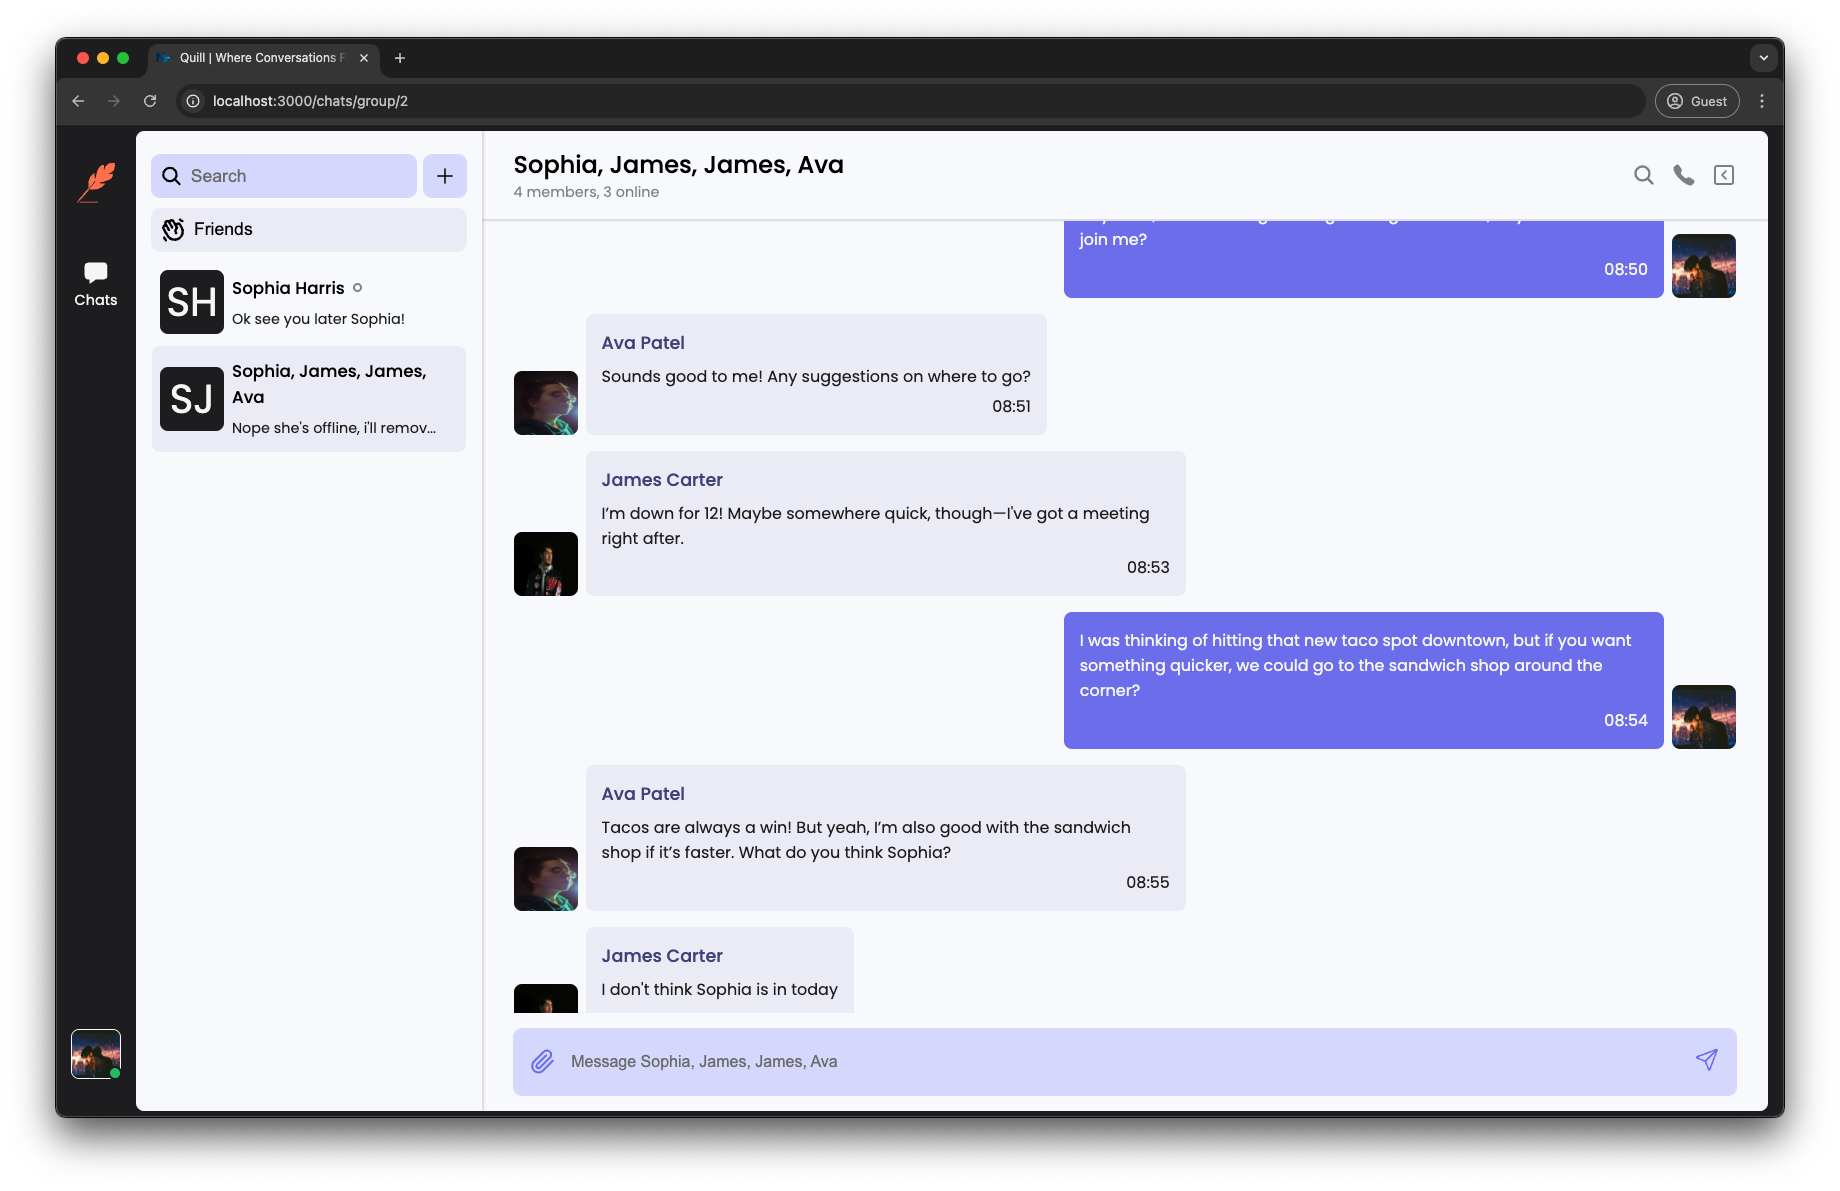
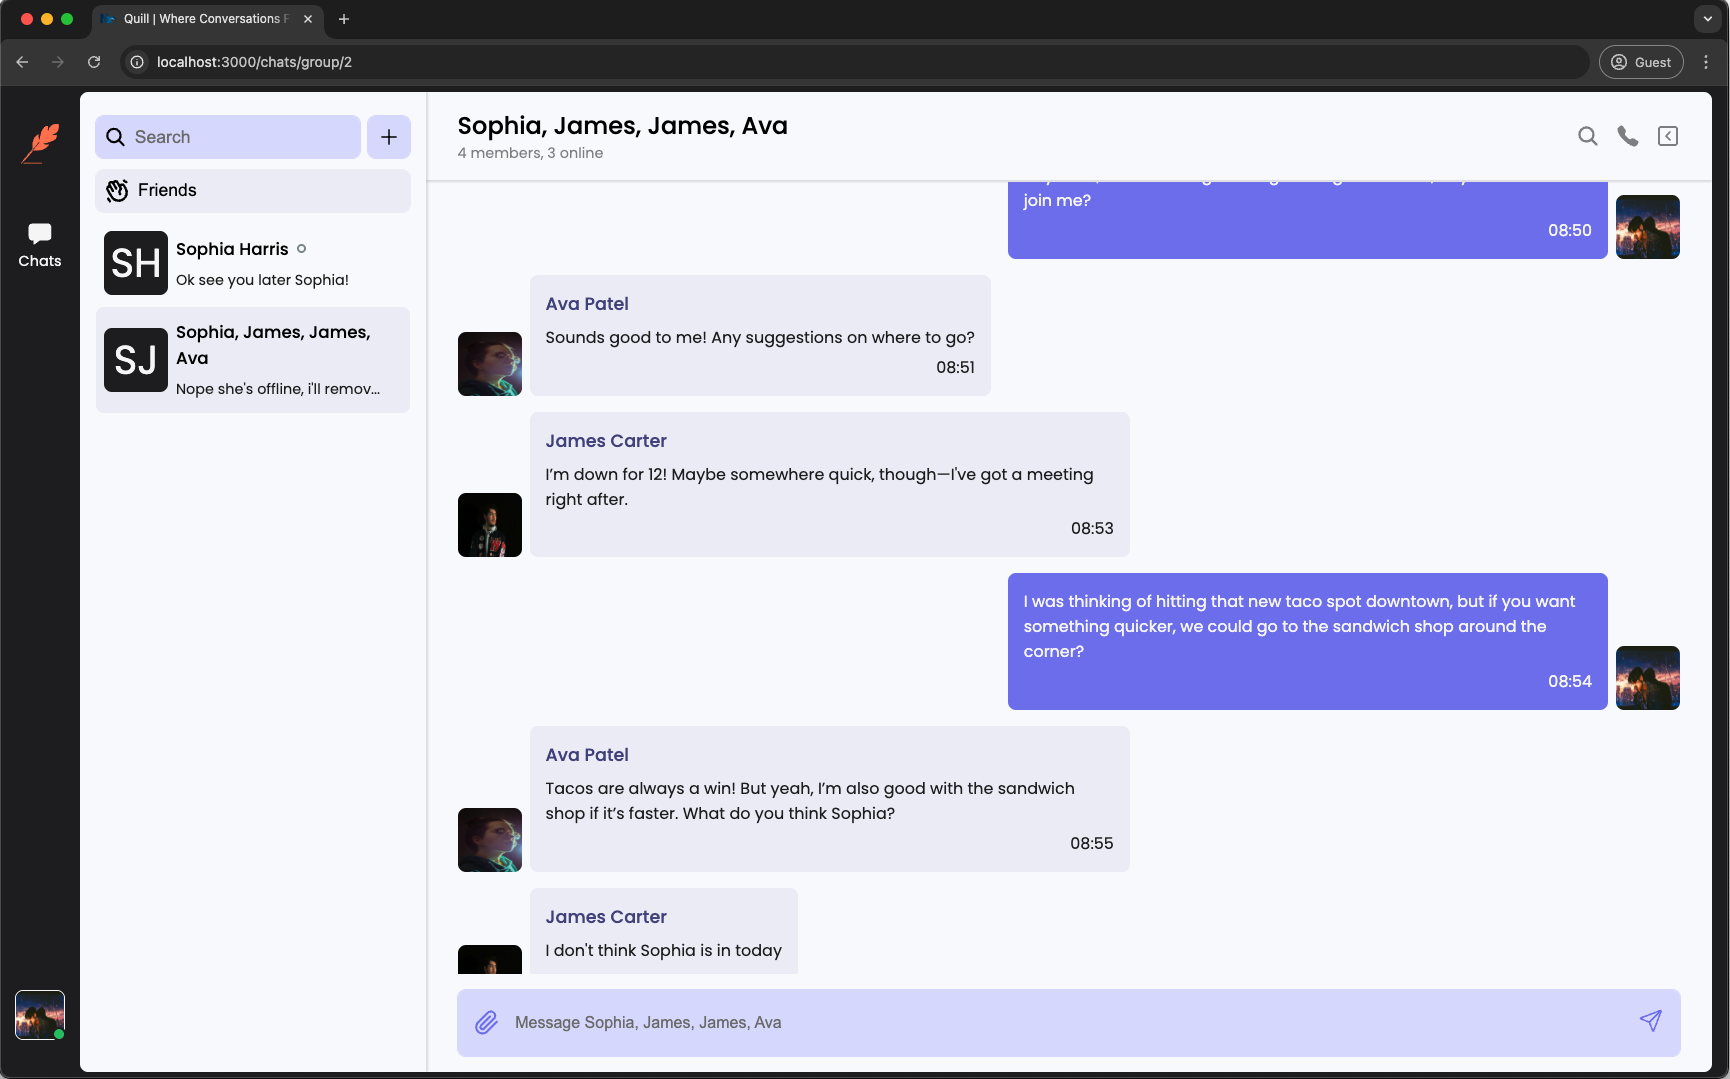
Add portfolio page

diff --git a/src/components/portfolio.tsx b/src/components/portfolio.tsx
@@ -1,0 +1,168 @@
+import PortfolioCard from './portfolioCard';
+
+export default async function Portfolio() {
+	const ignoreList = [
+		'github-readme-stats',
+		'kieran-lawrence',
+		'portfolio-website',
+		'klipit',
+		'my-kanban-app',
+	];
+
+	const res = await fetch('https://api.github.com/users/kieran-lawrence/repos');
+	let portfolioData: GitHubResponseType[] | undefined = undefined;
+	try {
+		switch (res.status) {
+			case 200:
+				portfolioData = await res.json();
+				break;
+			case 403:
+				console.error('Rate limit exceeded. Please try again later.');
+				break;
+			case 401:
+				console.error('Unauthorized. Please check your credentials.');
+				break;
+			default:
+				console.error('An error occurred. Please try again later.');
+				break;
+		}
+	} catch (error) {
+		console.error('An error occurred while fetching the data:', error);
+	}
+
+	return (
+		<div
+			id="portfolio"
+			className="flex h-[100vh] w-full flex-col items-center justify-center gap-4"
+		>
+			<h2>Portfolio</h2>
+			<ul className="portfolioGrid h-full w-[65vw] max-w-[85rem] justify-center gap-8">
+				{portfolioData &&
+					portfolioData.map(
+						(repo: GitHubResponseType) =>
+							!ignoreList.includes(repo.name) && (
+								<PortfolioCard
+									key={repo.id}
+									cardDescription={repo.description}
+									cardTitle={repo.name}
+									skills={repo.topics}
+								/>
+							),
+					)}
+				<PortfolioCard
+					cardDescription={
+						'A React Native app for effortlessly tracking your personal book collection, discovering new reads, and celebrating your reading journey with meaningful milestones'
+					}
+					cardTitle={'coming-soon'}
+					skills={['React Native', 'Fastlane', 'GitHub CI/CD']}
+				/>
+				<PortfolioCard
+					cardDescription={'Coming Soon'}
+					cardTitle={'coming-soon'}
+					skills={['Coming Soon']}
+				/>
+			</ul>
+		</div>
+	);
+}
+
+type GitHubResponseType = {
+	id: number;
+	node_id: string;
+	name: string;
+	full_name: string;
+	private: boolean;
+	owner: {
+		login: string;
+		id: number;
+		node_id: string;
+		avatar_url: string;
+		gravatar_id: string;
+		url: string;
+		html_url: string;
+		followers_url: string;
+		following_url: string;
+		gists_url: string;
+		starred_url: string;
+		subscriptions_url: string;
+		organizations_url: string;
+		repos_url: string;
+		events_url: string;
+		received_events_url: string;
+		type: string;
+		site_admin: boolean;
+	};
+	html_url: string;
+	description: string;
+	fork: boolean;
+	url: string;
+	forks_url: string;
+	keys_url: string;
+	collaborators_url: string;
+	teams_url: string;
+	hooks_url: string;
+	issue_events_url: string;
+	events_url: string;
+	assignees_url: string;
+	branches_url: string;
+	tags_url: string;
+	blobs_url: string;
+	git_tags_url: string;
+	git_refs_url: string;
+	trees_url: string;
+	statuses_url: string;
+	languages_url: string;
+	stargazers_url: string;
+	contributors_url: string;
+	subscribers_url: string;
+	subscription_url: string;
+	commits_url: string;
+	git_commits_url: string;
+	comments_url: string;
+	issue_comment_url: string;
+	contents_url: string;
+	compare_url: string;
+	merges_url: string;
+	archive_url: string;
+	downloads_url: string;
+	issues_url: string;
+	pulls_url: string;
+	milestones_url: string;
+	notifications_url: string;
+	labels_url: string;
+	releases_url: string;
+	deployments_url: string;
+	created_at: string;
+	updated_at: string;
+	pushed_at: string;
+	git_url: string;
+	ssh_url: string;
+	clone_url: string;
+	svn_url: string;
+	homepage: string | null;
+	size: number;
+	stargazers_count: number;
+	watchers_count: number;
+	language: string;
+	has_issues: true;
+	has_projects: true;
+	has_downloads: true;
+	has_wiki: true;
+	has_pages: boolean;
+	has_discussions: boolean;
+	forks_count: number;
+	mirror_url: string | null;
+	archived: boolean;
+	disabled: boolean;
+	open_issues_count: number;
+	license: null;
+	allow_forking: true;
+	is_template: boolean;
+	web_commit_signoff_required: boolean;
+	topics: [];
+	visibility: string;
+	forks: number;
+	open_issues: number;
+	watchers: number;
+	default_branch: string;
+};

diff --git a/src/components/portfolioCard.tsx b/src/components/portfolioCard.tsx
@@ -1,0 +1,54 @@
+import Image from 'next/image';
+import Link from 'next/link';
+
+type PortfolioCardProps = { cardTitle: string; cardDescription: string; skills: string[] };
+export default function PortfolioCard({ cardTitle, cardDescription, skills }: PortfolioCardProps) {
+	const formattedTitle = cardTitle.replaceAll('-', ' ');
+	return (
+		<li className="portfolioItem">
+			<Link
+				className={
+					formattedTitle.includes('bulletin')
+						? 'portfolioItemLink horizontal'
+						: 'portfolioItemLink'
+				}
+				href={cardTitle === 'coming-soon' ? '#portfolio' : `/portfolio/${cardTitle}`}
+			>
+				<div
+					className={
+						formattedTitle.includes('bulletin')
+							? 'border-text-light dark:border-text-dark relative h-[100%] w-full border-r-2'
+							: 'border-text-light dark:border-text-dark relative h-[50%] w-full border-b-2'
+					}
+				>
+					<Image
+						className={
+							formattedTitle.includes('bulletin')
+								? 'rounded-l-mlg object-cover'
+								: 'rounded-t-mlg object-cover'
+						}
+						src={`/${cardTitle}.png`}
+						alt={formattedTitle}
+						fill={true}
+					/>
+				</div>
+				<div className="flex h-[50%] flex-col items-center justify-center gap-4 px-4 text-justify">
+					<h4 className="text-2xl font-bold capitalize">{formattedTitle}</h4>
+					<p className="break-keep">{cardDescription}</p>
+					<div className="w-full">
+						<ul className="flex flex-wrap justify-center gap-2 font-[500]">
+							{skills.map((skill) => (
+								<li
+									className="bg-bg-light-alt dark:bg-clouds-two-dark-dark text-text-light rounded-2xl px-4 py-2 capitalize"
+									key={skill}
+								>
+									{skill.replaceAll('-', ' ')}
+								</li>
+							))}
+						</ul>
+					</div>
+				</div>
+			</Link>
+		</li>
+	);
+}

diff --git a/src/app/globals.css b/src/app/globals.css
@@ -31,6 +31,8 @@
   /** Common Font Variables */
   --tracking-mono-tight: -0.04em;
   --font-mono: 'Andale Mono', monospace;
+
+  --radius-mlg: 0.35rem;
 }
 
 h1,h2 {
@@ -70,4 +72,57 @@ h2 {
   .capitalised {
     text-transform: capitalize;
   }
+  .portfolioGrid {
+    display: grid;
+    grid-template-columns: minmax(0, 1fr) minmax(0, 50px) minmax(0, 50px) minmax(0, 1fr);
+    grid-template-rows: minmax(150px, 1fr) minmax(150px,400px) minmax(150px, 1fr);
+  }
+  .portfolioItem {
+    display: flex;
+    height: 100%;
+
+    &:nth-of-type(1) {
+      /* Bulletin */
+      grid-row: 2;
+      grid-column: 1 / span 4;
+    }
+    &:nth-of-type(2) {
+      /* Improved Obsidian */
+      grid-column: 2 / span 3;
+      grid-row: 3;
+    }
+    &:nth-of-type(3) {
+      /** Quill */
+      grid-row: 1;
+      grid-column: 1 / span 3;
+    }
+    &:nth-of-type(4) {
+      /** Placeholder 1 */
+      grid-row: 1;
+      grid-column: 4;
+    }
+    &:nth-of-type(5) {
+      /** Placeholder 2 */
+      grid-row: 3;
+      grid-column: 1;
+    }
+  }
+  .portfolioItemLink {
+		display:flex;
+		flex-direction: column;
+		justify-content: space-between;
+		align-items: center;
+		width: 100%;
+    border-style: var(--tw-border-style);
+    border-width: 2px;
+    border-color: var(--color-text-light);
+    border-radius: var(--radius-lg);
+
+    &.horizontal {
+      flex-direction: row;
+    }
+    &:where([data-theme=dark], [data-theme=dark] *) {
+      border-color: var(--color-text-dark);
+  }
+	}
 }

diff --git a/src/app/page.tsx b/src/app/page.tsx
@@ -1,5 +1,6 @@
 import CloudsBackgroundBottom from '@/components/cloudsBackgroundBottom';
 import CloudsBackgroundTop from '@/components/cloudsBackgroundTop';
+import Portfolio from '@/components/portfolio';
 import Resume from '@/components/resume';
 
 export default function Home() {
@@ -18,13 +19,10 @@ export default function Home() {
 			<div className="relative h-[376px] w-full">
 				<CloudsBackgroundTop />
 			</div>
-			<div id="resume" className="bg-bg-light dark:bg-bg-dark w-full transition duration-250">
+			<div className="bg-bg-light dark:bg-bg-dark flex w-full flex-col gap-16 transition duration-250">
 				<Resume />
+				<Portfolio />
 			</div>
-			<div
-				id="portfolio"
-				className="bg-bg-light dark:bg-bg-dark w-full transition duration-250"
-			></div>
 			<div className="relative w-full">
 				<CloudsBackgroundBottom />
 			</div>

diff --git a/src/components/resume.tsx b/src/components/resume.tsx
@@ -5,7 +5,7 @@ import SkillsItem from './skillsItem';
 
 export default function Resume() {
 	return (
-		<div id="resume" className="flex w-full flex-col items-center justify-center">
+		<div id="resume" className="flex w-full flex-col items-center justify-center gap-4">
 			<h2>Work History</h2>
 			<div className="grid w-[65vw] max-w-[85rem] grid-cols-4 place-items-center gap-8">
 				<ResumeCard

diff --git a/src/components/skillsItem.tsx b/src/components/skillsItem.tsx
@@ -18,7 +18,9 @@ export default function SkillsItem({
 				{skillItems.map((item) => (
 					<p
 						className={
-							kind === 'tools' ? 'bg-aws-icon skillsCard' : 'bg-react-icon skillsCard'
+							kind === 'tools'
+								? 'bg-aws-icon skillsCard text-bg-dark-alt'
+								: 'bg-react-icon skillsCard text-bg-dark-alt'
 						}
 						key={item}
 					>
